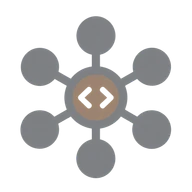
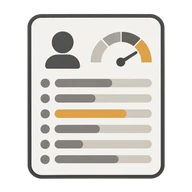
fix(research): ground article imagery in actual subjects

diff --git a/src/components/pages/CollectionViews.tsx b/src/components/pages/CollectionViews.tsx
@@ -25,16 +25,49 @@ import type { Translator } from "@/lib/translator";
  * hands them over.
  */
 
-// Editorial artwork for entries without a GitHub avatar.
-const RESEARCH_ICONS: Record<string, string | undefined> = {
-  "how-we-score-github-accounts": "/research-icons/how-we-score-github-accounts.webp",
-  "who-builds-openclaw": "/research-icons/who-builds-openclaw.webp",
-  "we-scored-19000-github-accounts": "/research-icons/we-scored-19000-github-accounts.webp",
-  "agents-heart-hands-body": "/research-icons/agents-heart-hands-body.webp",
-  "deepseek-harness-apache-maka": "/research-icons/deepseek-harness-apache-maka.webp",
-  "max-liu": "/research-icons/max-liu.webp",
-  "who-builds-dify": "/research-icons/dify.svg",
+type ResearchImage = { src: string; label: string; portrait?: boolean };
+
+const RESEARCH_ICONS: Record<string, ResearchImage[] | undefined> = {
+  "how-we-score-github-accounts": [{ src: "/research-icons/how-we-score-github-accounts.webp", label: "" }],
+  "we-scored-19000-github-accounts": [{ src: "/research-icons/we-scored-19000-github-accounts.webp", label: "" }],
+  "who-builds-openclaw": [{ src: "/research-icons/openclaw.webp", label: "OpenClaw" }],
+  "agents-heart-hands-body": [
+    { src: "/research-icons/yuiju.webp", label: "yuiju" },
+    { src: "/research-icons/lathe.webp", label: "lathe" },
+    { src: "/mosoo.svg", label: "mosoo" },
+  ],
+  "deepseek-harness-apache-maka": [
+    { src: "/deepseek.svg", label: "DeepSeek Harness" },
+    { src: "/research-icons/maka.webp", label: "Apache Maka" },
+  ],
+  "max-liu": [{ src: "/research-icons/max-liu-portrait.webp", label: "Max Liu", portrait: true }],
+  "who-builds-dify": [{ src: "/research-icons/dify.svg", label: "Dify" }],
 };
+
+function ResearchArtwork({ images }: { images: ResearchImage[] }) {
+  const grouped = images.length > 1;
+  const positions = images.length === 3
+    ? ["left-0 top-0", "right-0 top-0", "bottom-0 left-3"]
+    : ["left-0 top-0", "bottom-0 right-0"];
+  return (
+    <span className="relative mt-1 block h-12 w-12 shrink-0" title={images.map(image => image.label).filter(Boolean).join(" · ")}>
+      {images.map((image, index) => (
+        // eslint-disable-next-line @next/next/no-img-element -- small local artwork and source project marks
+        <img
+          key={image.src}
+          src={image.src}
+          alt=""
+          width={grouped ? 24 : 48}
+          height={grouped ? 24 : 48}
+          loading="lazy"
+          className={grouped
+            ? `absolute h-6 w-6 rounded-md bg-white object-contain ${positions[index]}`
+            : `h-12 w-12 rounded-xl ${image.portrait ? "object-cover" : "object-contain"} ${image.label === "Dify" ? "bg-white p-1" : ""}`}
+        />
+      ))}
+    </span>
+  );
+}
 
 const longDate = (locale: string) =>
   new Intl.DateTimeFormat(bcp47(locale), { year: "numeric", month: "long", day: "numeric" });
@@ -114,15 +147,7 @@ export function CollectionsIndexView({
                       className="mt-1 h-12 w-12 shrink-0 rounded-xl"
                     />
                   ) : entry.artwork ? (
-                    // eslint-disable-next-line @next/next/no-img-element -- small local editorial artwork, pre-sized for the list
-                    <img
-                      src={entry.artwork}
-                      alt=""
-                      width={48}
-                      height={48}
-                      loading="lazy"
-                      className={`mt-1 h-12 w-12 shrink-0 object-contain ${entry.artwork === "/research-icons/dify.svg" ? "rounded-xl bg-white p-1" : ""}`}
-                    />
+                    <ResearchArtwork images={entry.artwork} />
                   ) : (
                     <span
                       aria-hidden="true"

diff --git a/docs/design/research-icons.md b/docs/design/research-icons.md
@@ -1,20 +1,33 @@
-# Deep Research editorial icons
+# Deep Research article imagery
 
-Six article-specific illustrations edited with the built-in imagegen tool. Transparent 192 × 192 WebP assets live in `public/research-icons/` and display at 48 × 48 CSS pixels. The palette uses neutral slate gray with a subdued brown accent, flat shapes, and no glossy lighting. Original GitHub avatars remain unchanged.
+Images identify the article's actual subject. Existing GitHub avatars remain unchanged. Project marks are shown individually without redrawing them; multi-project articles use a compact group in the existing 48px image slot. Dify keeps its original SVG and white backdrop.
 
-Dify uses the unmodified official SVG from https://raw.githubusercontent.com/langgenius/dify/main/web/public/logo/logo.svg (retrieved 2026-10-25), displayed on a white UI backdrop. Dify branding belongs to LangGenius; see https://dify.ai/legal/brand-usage-terms.
+## Sources
 
-## Edit prompt
+Retrieved 2026-10-25. Local raster assets are 192px WebP versions with aspect ratio preserved.
 
-Each existing article illustration was supplied as the edit target with this prompt:
+| Article | Image source |
+| --- | --- |
+| Three Agent projects | yuiju character avatar and lathe logo from the article's existing assets: https://assets.usedify.app/collections/agents-heart-hands-body/yuiju-avatar.webp and https://assets.usedify.app/collections/agents-heart-hands-body/lathe-logo.png; existing `/mosoo.svg` |
+| DeepSeek Harness / Apache Maka | Existing `/deepseek.svg`; Maka icon referenced by its official README: https://raw.githubusercontent.com/apache/maka/main/apps/desktop/assets/app-icons/sky.png |
+| OpenClaw contributors | Project's GitHub organization avatar: https://github.com/openclaw.png?size=192 |
+| Max Liu | Portrait linked by his personal website https://maxforai.com/: https://maxforai.com/images/profile.webp |
+| Dify contributors | https://raw.githubusercontent.com/langgenius/dify/main/web/public/logo/logo.svg |
 
-Redesign this editorial article icon, retaining its topic and essential recognizable symbols, but completely replace the shiny colorful 3D rendering. Required style: restrained flat editorial pictogram for a serious research index, simple solid silhouettes and a few clean cutouts, absolutely no 3D, gradients, highlights, reflections, shadows, glow or glossy/plastic material. Palette strictly TWO subdued colors only: neutral slate gray #85888B for most of the icon, and muted dusty brown #9A8674 for a small secondary accent, at most 20 percent of the filled area. All six icons in this series must share this exact palette, no other colors. Do not keep the source's bright colors. Simplify complex decorations into 2-3 clean main shapes readable at 48px. Keep the subject, square framing and comfortable padding; no text or numbers, no background tile, genuine transparent alpha background. This should feel like quiet editorial wayfinding beside an article title, not a toy, sticker or app-store game icon. Output one icon only.
+Brand marks belong to their owners and are used to identify the subjects discussed. Dify usage terms: https://dify.ai/legal/brand-usage-terms.
 
-## Article subjects
+## Generated research illustrations
 
-- `how-we-score-github-accounts`: six scoring dimensions around a code symbol.
-- `who-builds-openclaw`: lobster claw holding code, surrounded by contributors.
-- `we-scored-19000-github-accounts`: magnifying glass examining a group of accounts.
-- `agents-heart-hands-body`: robot with a heart and articulated hands.
-- `deepseek-harness-apache-maka`: plugin foundation paired with a log-based workbench.
-- `max-liu`: community connections, communication and growth.
+The two general research articles use literal report/chart illustrations generated with built-in imagegen, stored in `public/research-icons/`. These are editorial illustrations, not screenshots or measured results.
+
+### how-we-score-github-accounts
+
+A small developer evaluation REPORT CARD, front-on and instantly recognizable as a document: rounded rectangular off-white sheet, charcoal outline, a simple profile silhouette at upper left, a compact semicircular score gauge at upper right, exactly six horizontal score bars underneath. Article is about how ghfind scores a GitHub developer from 0 to 100 using six public-contribution dimensions, not about networking. The score bars are muted warm gray, one understated dusty amber highlight. No numeric score because this is a methodology explanation, not an actual person's result. No connected dots, no radial hubs, no gears, no code-bracket symbol. One report card is the entire icon. Flat simple 2D editorial icon, neutral gray with muted ochre accent, crisp large shapes readable at 48px. Transparent background. No 3D, shine, text or tiny decoration.
+
+### we-scored-19000-github-accounts
+
+An empirical research histogram, five vertical bars of different heights on a simple baseline, with ONE magnifying glass inspecting the rightmost small bar. Article is a statistical study measuring suspicious GitHub contribution patterns in 18,947 accounts; the emphasis is measurement of a distribution, not claiming every account is fraudulent. Gray bars with one subtle dusty amber bar. No people, no robot, no network diagram, no shield or verdict checkmark. One clear chart with one clear magnifying glass. Flat simple 2D editorial icon, neutral gray with muted ochre accent, crisp large shapes readable at 48px. Transparent background. No 3D, shine, text or tiny decoration.
+
+Final chart refinement prompt:
+
+Redraw this chart icon crisply. Keep the five-bar histogram and magnifying glass concept. REMOVE ALL glow, haze, blur, shadow and gradients completely. Use opaque flat medium-gray bars, dark-gray thick outlines and one low-saturation muted ochre bar. Hard clean edges only. Square composition, chart and magnifier fill 80% of square, centered. Transparent background with absolutely NO surrounding translucent shadow. It must be readable as a tiny 48px icon on white or dark background. No text.
